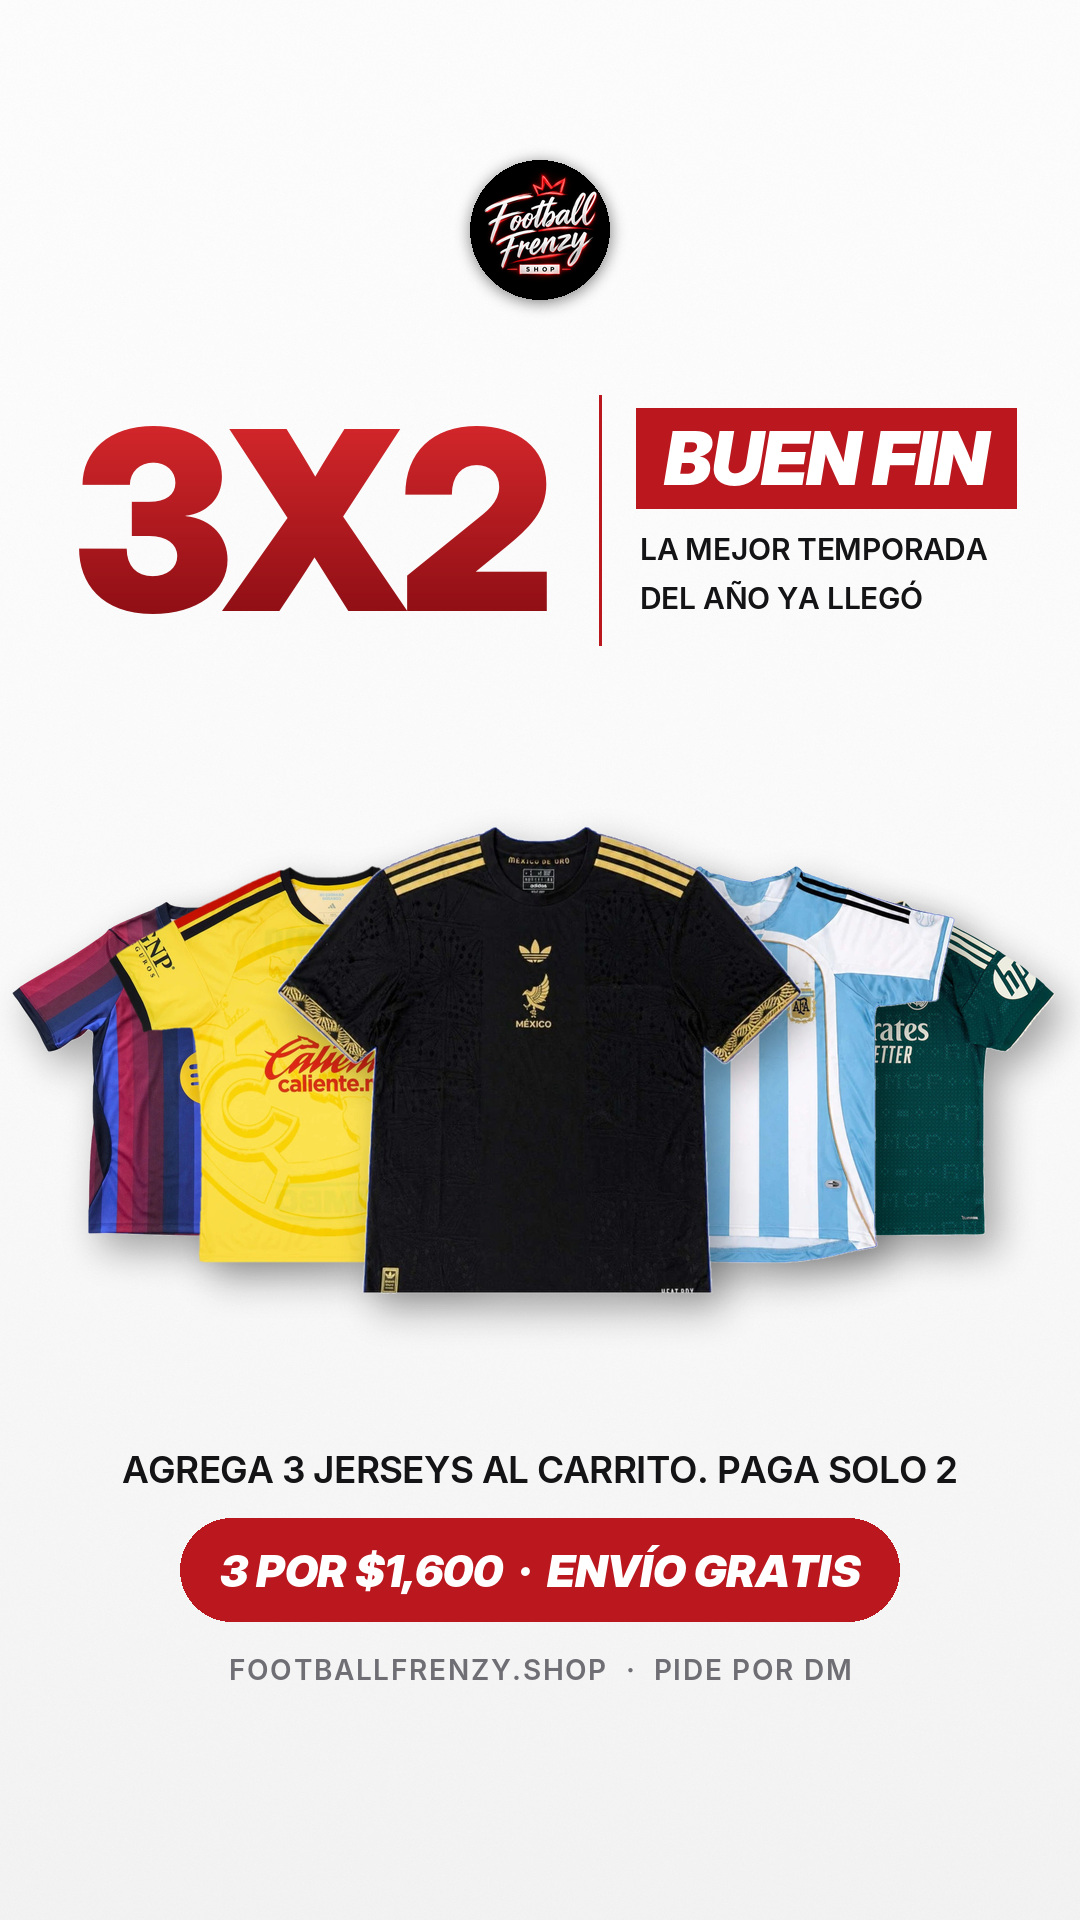
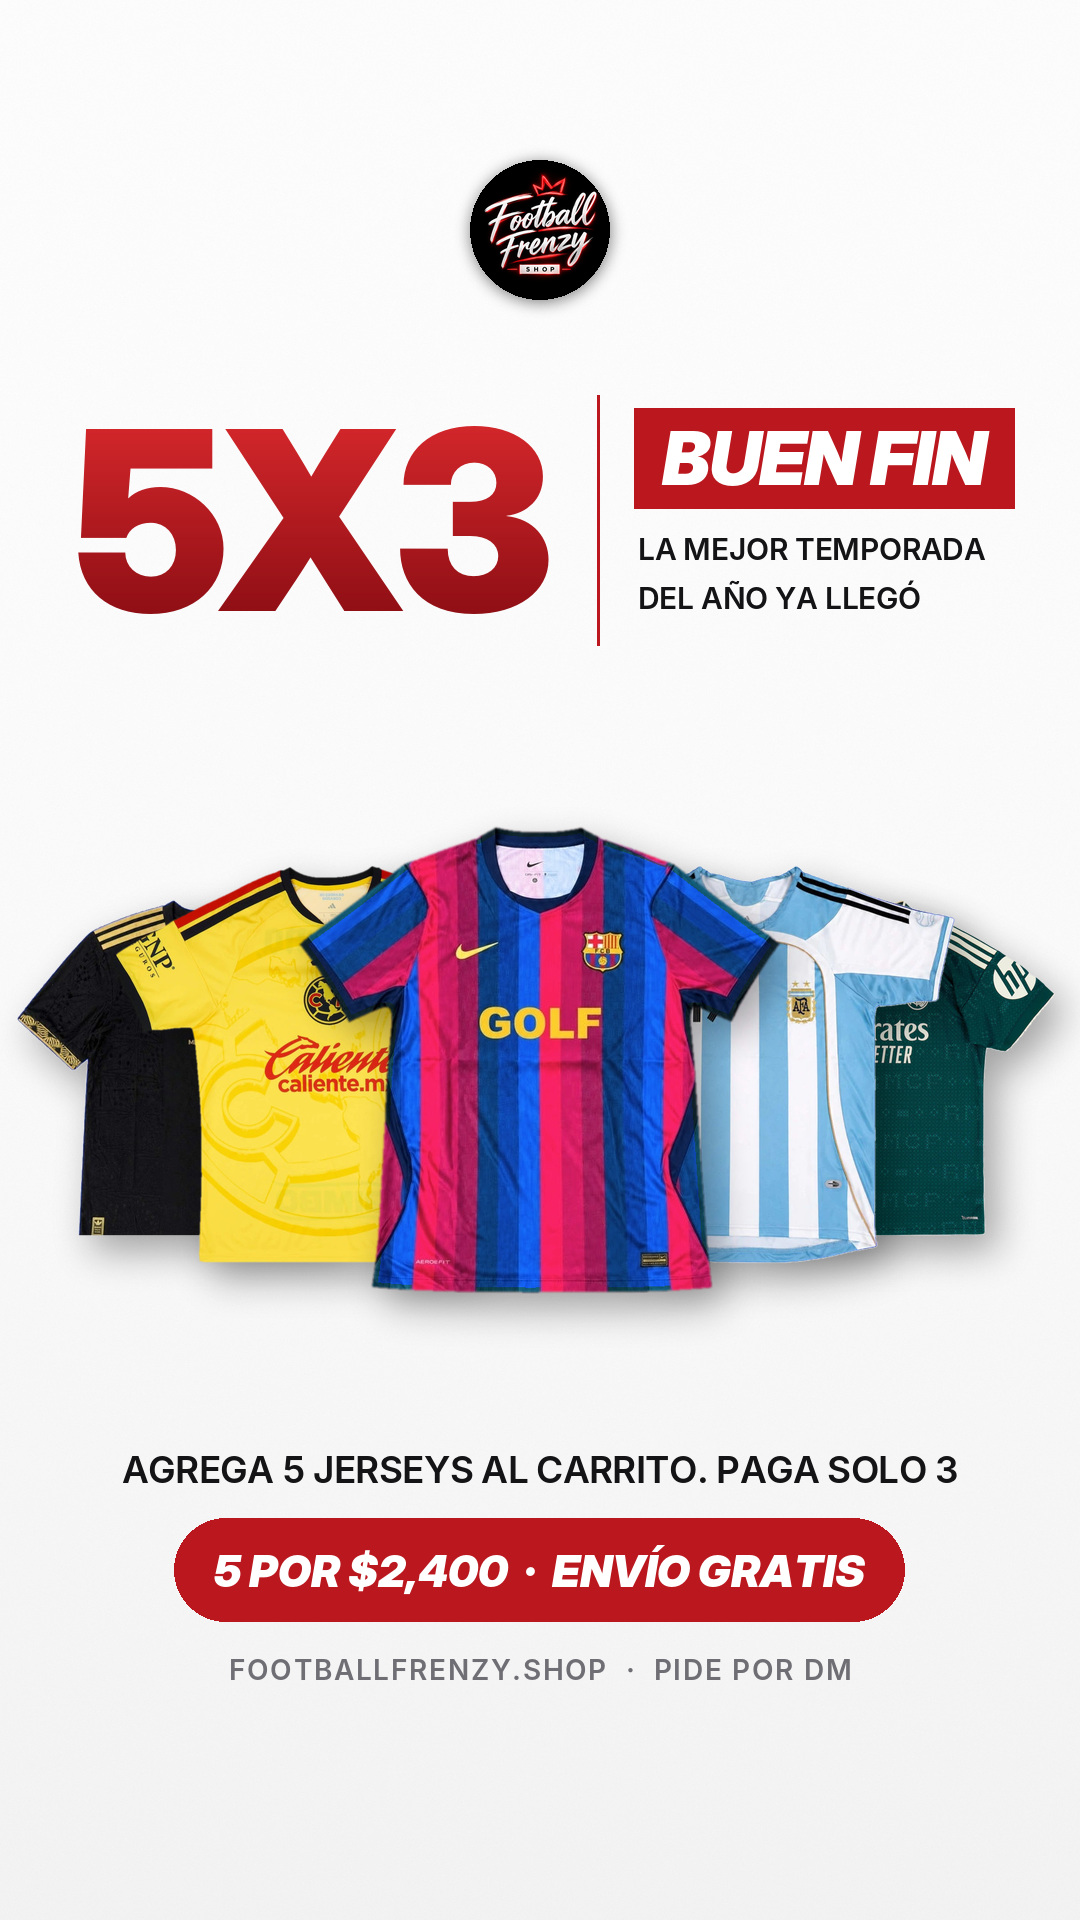
Buen Fin: 5X3 con Barça x Golf al frente
Claude-Session: https://claude.ai/code/session_01Y3XEkftw7SELToetvsGNVM

diff --git a/ads/buen_fin.py b/ads/buen_fin.py
@@ -1,4 +1,4 @@
-"""Historia 'Buen Fin' (1080x1920): 3X2 gigante + bloque BUEN FIN, cinco jerseys reales de la tienda en abanico.
+"""Historia 'Buen Fin' (1080x1920): 5X3 gigante + bloque BUEN FIN, cinco jerseys reales de la tienda en abanico.
 
 Inspirada en el formato 'número grande | etiqueta roja + subtítulo' con fila de jerseys traslapadas.
 Uso: python3 buen_fin.py
@@ -16,11 +16,11 @@ INTER = "/usr/share/fonts/opentype/inter/"
 RED, DARK_RED, INK = (186, 24, 30), (140, 14, 20), (20, 20, 22)
 # back row first (drawn first), the centre one last so it sits in front
 FAN = [
-    ("cl_fcb_home26.png", -335, 0.72),
+    ("mex_gold.png", -335, 0.72),
     ("cl_rm_away26.png", 335, 0.72),
     ("outfit/america.png", -205, 0.85),
     ("arg06.png", 205, 0.85),
-    ("mex_gold.png", 0, 1.0),
+    ("spotify/golf.png", 0, 1.0),
 ]
 
 
@@ -69,7 +69,7 @@ def jersey(name, h):
 
 
 def headline(c, y):
-    big = gradient_text(word("3X2", "InterDisplay-Black.otf", 250, (255, 255, 255), -0.04), (214, 40, 44), DARK_RED)
+    big = gradient_text(word("5X3", "InterDisplay-Black.otf", 250, (255, 255, 255), -0.04), (214, 40, 44), DARK_RED)
     tag = word("BUEN FIN", "InterDisplay-BlackItalic.otf", 74, (255, 255, 255), -0.02)
     box = Image.new("RGBA", (tag.width + 36, tag.height + 26), RED + (255,))
     box.alpha_composite(tag, (18, 13))
@@ -94,8 +94,8 @@ def build():
     for name, dx, k in FAN:
         lay = jersey(name, int(470 * k))
         put(c, lay, W / 2 + dx, 1060 + (1 - k) * 30)
-    put(c, word("AGREGA 3 JERSEYS AL CARRITO. PAGA SOLO 2", "Inter-SemiBold.otf", 37, INK, -0.02), W / 2, 1470)
-    pill = word("3 POR $1,600  ·  ENVÍO GRATIS", "InterDisplay-BlackItalic.otf", 44, (255, 255, 255), 0.0)
+    put(c, word("AGREGA 5 JERSEYS AL CARRITO. PAGA SOLO 3", "Inter-SemiBold.otf", 37, INK, -0.02), W / 2, 1470)
+    pill = word("5 POR $2,400  ·  ENVÍO GRATIS", "InterDisplay-BlackItalic.otf", 44, (255, 255, 255), 0.0)
     box = Image.new("RGBA", (pill.width + 60, pill.height + 34), (0, 0, 0, 0))
     ImageDraw.Draw(box).rounded_rectangle([0, 0, box.width - 1, box.height - 1], radius=box.height // 2, fill=RED)
     box.alpha_composite(pill, (30, 17))
